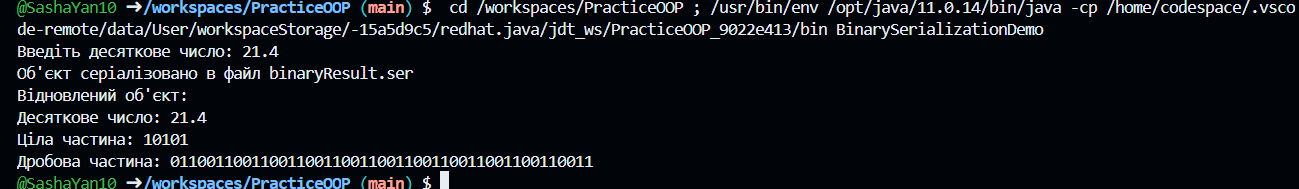
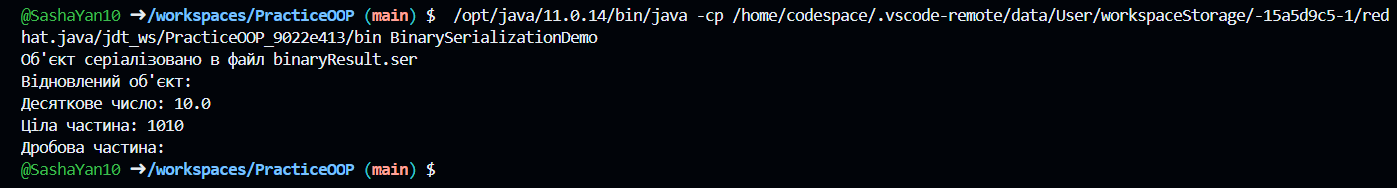
readme upd

Changed region(s): [[0.0, 0.0, 1.0, 1.0]]

diff --git a/README.md b/README.md
@@ -130,23 +130,14 @@ public class BinaryCalculator {
 ### Розробити клас для демонстрації в діалоговому режимі збереження та відновлення стану об'єкта, використовуючи серіалізацію. Показати особливості використання transient полів.
 ````java
 import java.io.*;
-import java.util.Scanner;
 
 /**
  * Клас для демонстрації обчислення та серіалізації/десеріалізації результатів в двійковій формі.
  */
 public class BinarySerializationDemo {
     public static void main(String[] args) {
-        Scanner scanner = new Scanner(System.in);
-        System.out.print("Введіть десяткове число: ");
-        double num = scanner.nextDouble();
-
-        int intPart = (int) num;
-        double fracPart = num - intPart;
-        String binaryIntPart = Integer.toBinaryString(intPart);
-
         BinaryCalculator calculator = new BinaryCalculator();
-        calculator.solve(num, intPart, fracPart, binaryIntPart);
+        calculator.solve(10, 10, 0, "1010");
         BinaryResult binaryResult = calculator.getBinaryResult();
 
         serializeObject(binaryResult, "binaryResult.ser");
@@ -156,8 +147,6 @@ public class BinarySerializationDemo {
         System.out.println("Десяткове число: " + restoredResult.getNum());
         System.out.println("Ціла частина: " + restoredResult.getBinaryIntPart());
         System.out.println("Дробова частина: " + restoredResult.getBinaryFracPart());
-
-        scanner.close();
     }
 
     public static void serializeObject(Object obj, String fileName) {
@@ -200,13 +189,8 @@ public class BinaryTest {
     }
 
     private static BinaryResult calculateBinaryRepresentation() {
-        Scanner scanner = new Scanner(System.in);
-        System.out.print("Введіть десяткове число: ");
-        double num = scanner.nextDouble();
-        scanner.close();
-
         BinaryCalculator binaryCalculator = new BinaryCalculator();
-        binaryCalculator.solve(num, (int) num, num - (int) num, Integer.toBinaryString((int) num));
+        binaryCalculator.solve(10, 10, 0, "1010");
         return binaryCalculator.getBinaryResult();
     }
 
@@ -217,7 +201,6 @@ public class BinaryTest {
     private static void testSerialization(BinaryResult expectedResult) {
         try (ObjectOutputStream outputStream = new ObjectOutputStream(new FileOutputStream("testBinaryResult.ser"))) {
             outputStream.writeObject(expectedResult);
-            System.out.println("Об'єкт збережено у файл testBinaryResult.ser");
         } catch (IOException e) {
             e.printStackTrace();
         }
@@ -226,8 +209,8 @@ public class BinaryTest {
             BinaryResult restoredResult = (BinaryResult) inputStream.readObject();
 
             if (restoredResult.getNum() == expectedResult.getNum() &&
-                restoredResult.getBinaryIntPart().equals(expectedResult.getBinaryIntPart()) &&
-                restoredResult.getBinaryFracPart().equals(expectedResult.getBinaryFracPart())) {
+                    restoredResult.getBinaryIntPart().equals(expectedResult.getBinaryIntPart()) &&
+                    restoredResult.getBinaryFracPart().equals(expectedResult.getBinaryFracPart())) {
                 System.out.println("Тестування серіалізації та десеріалізації успішно завершено.");
             } else {
                 System.out.println("Помилка у тестуванні серіалізації та десеріалізації.");
